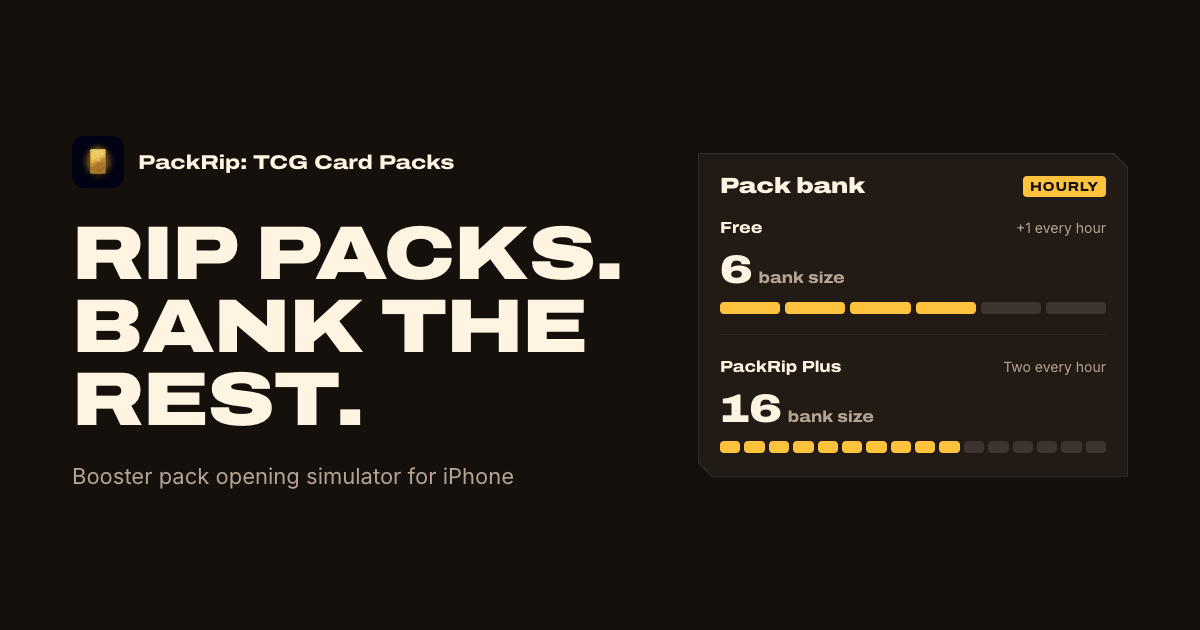
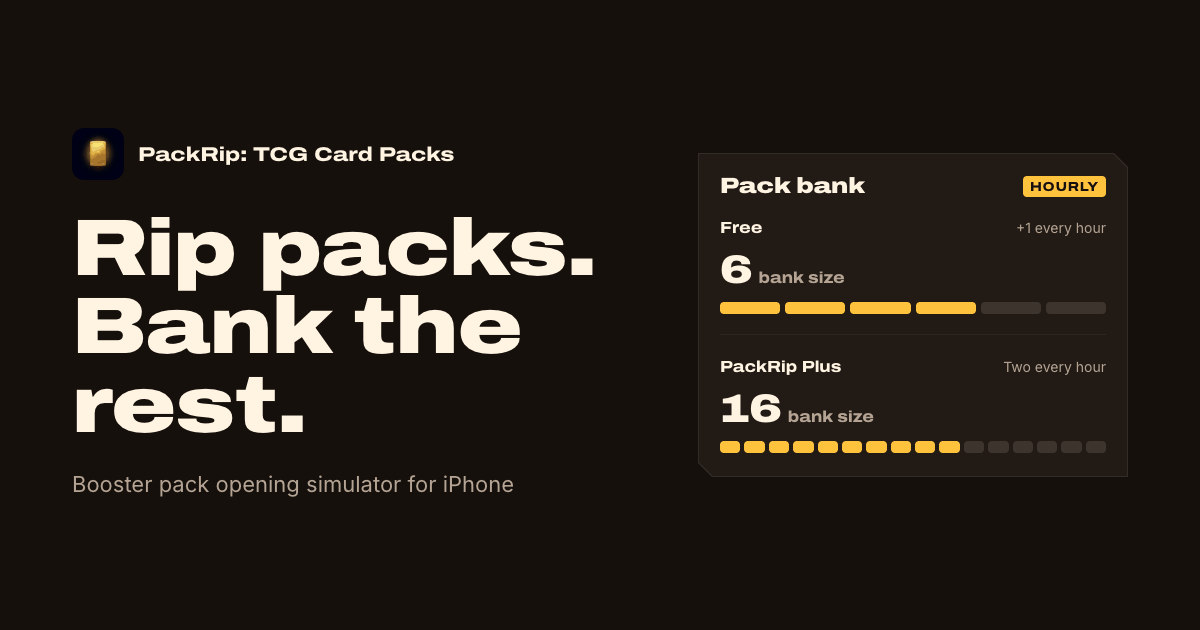
style(packrip): sentence-case headline, real odds caption
The hero and share-card headline drop text-transform: uppercase, which
the 2.0 rule reserves for one- or two-word tags; the bank tag becomes
"New". The odds-frame caption no longer calls the rates illustrative:
they match the live config. Heading anchors hide on touch screens, and
the terms say banked packs cannot be sold or exchanged for money.

Changed region(s): [[0.0617, 0.3317, 0.5242, 0.6937], [0.0617, 0.7238, 0.4317, 0.7841], [0.0617, 0.2111, 0.4008, 0.3016]]

diff --git a/packrip-cards/index.html b/packrip-cards/index.html
@@ -125,7 +125,7 @@
         <section class="bank cut" aria-labelledby="bank-title">
           <div class="bank-head">
             <h2 id="bank-title">Pack bank</h2>
-            <span class="tag">New in 2.0</span>
+            <span class="tag">New</span>
           </div>
           <div class="bank-row">
             <div class="bank-label"><b>Free</b><span>+1 every hour</span></div>
@@ -183,8 +183,7 @@
         </div>
         <p class="cap">
           Frames from the App Store listing for the iPhone app, which ships PackRip&rsquo;s own
-          original card art. Rates in the odds frame are illustrative; the app shows the live
-          ones for each pack.
+          original card art. The app shows the live rates for each pack before you open it.
         </p>
       </div>
     </section>

diff --git a/packrip-cards/terms.html b/packrip-cards/terms.html
@@ -105,8 +105,8 @@
         <p>
           Free packs refill into a pack bank over time, and the bank has a limit; when it is
           full it stops filling until you open a pack. PackRip Plus refills faster and holds
-          more. Banked packs are a free allowance, not a purchase: they cannot be bought,
-          sold or transferred, and the refill rate and bank size can change.
+          more. Banked packs are a free allowance: they cannot be sold, transferred or
+          exchanged for money, and the refill rate and bank size can change.
         </p>
         <p>
           Memory Rip is a mini-game with a limited number of free games a day; further games

diff --git a/packrip-cards/_shared.css b/packrip-cards/_shared.css
@@ -290,7 +290,6 @@ h1, h2, h3, .display {
 }
 .hero-copy h1 {
   font-size: clamp(40px, 6vw, 68px);
-  text-transform: uppercase;
   letter-spacing: -.015em;
   line-height: .98;
 }
@@ -642,6 +641,7 @@ body.field-guide main { padding-top: clamp(32px, 6vw, 64px); }
   opacity: 0;
 }
 .prose h2:hover .anchor, .anchor:focus-visible { opacity: 1; }
+@media (hover: none) { .anchor { display: none; } }
 
 .note { padding: 18px 20px; margin: 26px 0 8px; --cut-fill: var(--panel); --cut-line: var(--coin); }
 .note p { margin: 0; color: var(--ink); }
